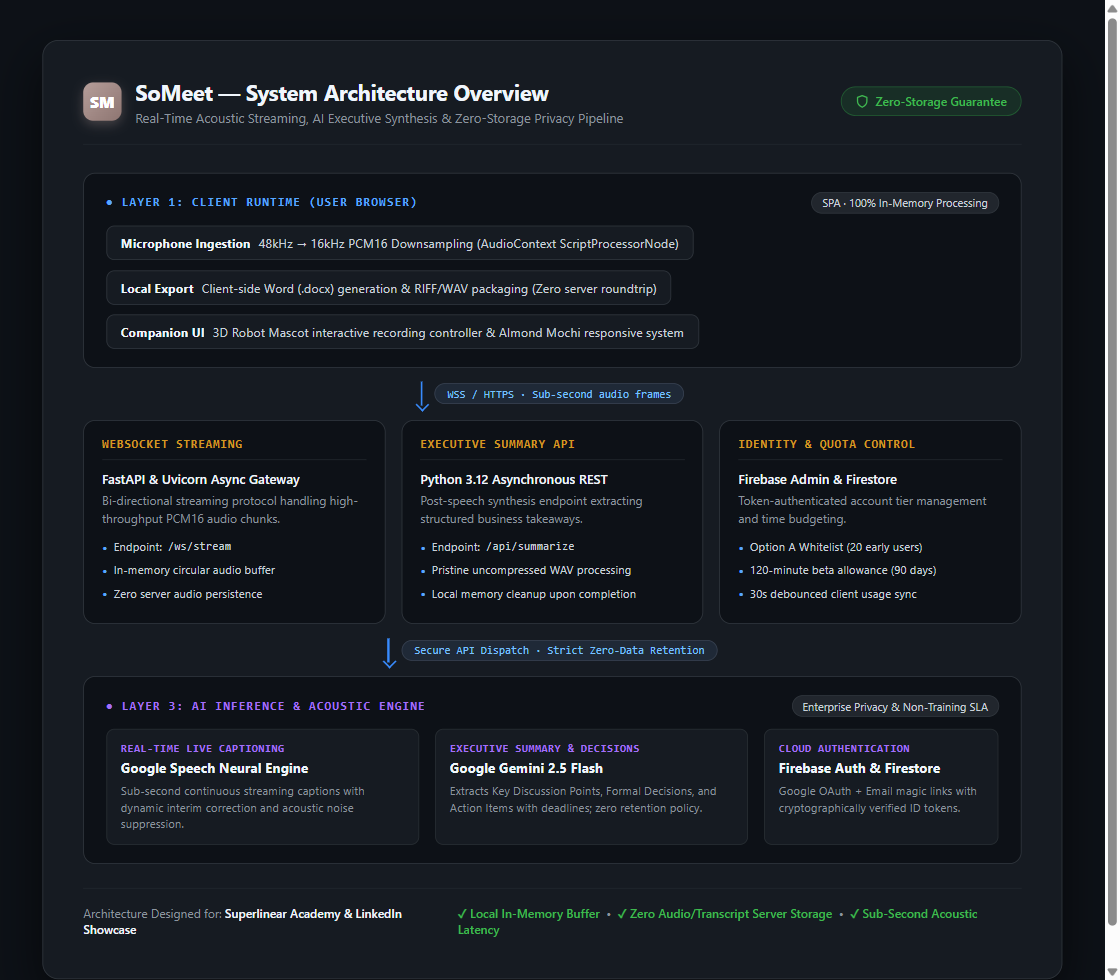
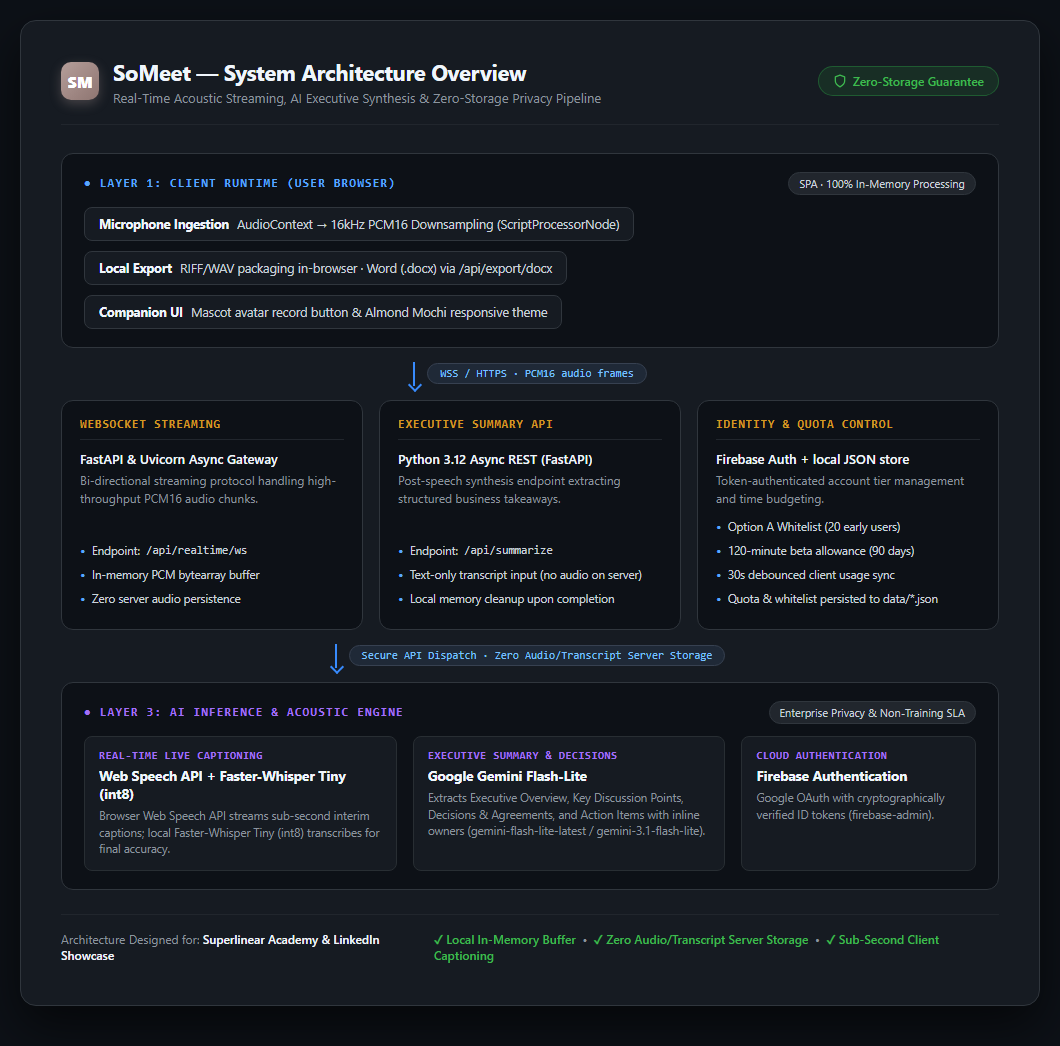
Add updated ASCII architecture diagram and rendered graphic overviews

diff --git a/static/ascii_render.html b/static/ascii_render.html
@@ -1,0 +1,122 @@
+<!DOCTYPE html>
+<html lang="en">
+<head>
+  <meta charset="UTF-8">
+  <title>SoMeet Architecture Overview</title>
+  <style>
+    * {
+      box-sizing: border-box;
+      margin: 0;
+      padding: 0;
+    }
+    body {
+      background-color: #EAE6E5;
+      display: flex;
+      justify-content: center;
+      align-items: center;
+      min-height: 100vh;
+      padding: 30px;
+      font-family: -apple-system, BlinkMacSystemFont, "Segoe UI", Roboto, sans-serif;
+    }
+    .wrapper {
+      background: #FBF7F7;
+      border: 1px solid #A58E8A;
+      border-radius: 14px;
+      padding: 24px 28px 28px;
+      box-shadow: 0 8px 30px rgba(165, 142, 138, 0.2);
+      display: inline-block;
+    }
+    .header-bar {
+      display: flex;
+      justify-content: space-between;
+      align-items: center;
+      margin-bottom: 14px;
+      padding-bottom: 10px;
+      border-bottom: 1px solid #E2D6D3;
+    }
+    .title-group {
+      display: flex;
+      align-items: center;
+      gap: 10px;
+    }
+    .badge {
+      background: #7A6966;
+      color: #FFFFFF;
+      font-size: 11px;
+      font-weight: 700;
+      letter-spacing: 0.6px;
+      padding: 3px 10px;
+      border-radius: 12px;
+      text-transform: uppercase;
+    }
+    .title {
+      font-size: 15px;
+      font-weight: 700;
+      color: #3E3433;
+      letter-spacing: -0.2px;
+    }
+    .subtitle {
+      font-size: 12px;
+      color: #7A6966;
+      font-weight: 500;
+    }
+    pre {
+      font-family: "Consolas", "Cascadia Code", "Courier New", monospace;
+      font-size: 13.5px;
+      line-height: 1.34;
+      color: #2D2423;
+      background: #FFFFFF;
+      padding: 20px 24px;
+      border-radius: 10px;
+      border: 1px solid #E2D6D3;
+      white-space: pre;
+      overflow: visible;
+      letter-spacing: 0px;
+    }
+  </style>
+</head>
+<body>
+  <div class="wrapper">
+    <div class="header-bar">
+      <div class="title-group">
+        <span class="badge">Architecture</span>
+        <span class="title">SoMeet — System Architecture Overview</span>
+      </div>
+      <div class="subtitle">Vanilla JS · FastAPI (Python 3.12) · Faster-Whisper · Gemini Flash-Lite</div>
+    </div>
+    <pre>
+┌─────────────────────────────────────────────────────────────────────────────┐
+│                        LAYER 1: CLIENT RUNTIME                              │
+│       Modern Web Audio SPA (Vanilla JS · HTML5 AudioContext · WSS)          │
+│                                                                             │
+│ • Ingestion: AudioContext → 16kHz PCM16 Downsampling (ScriptProcessorNode)  │
+│ • Local Export: RIFF/WAV in-browser · Word (.docx) via /api/export/docx     │
+│ • Companion UI: Mascot avatar record button & Almond Mochi responsive theme │
+└──────────────────────────────────────┬──────────────────────────────────────┘
+                                       │ WSS / HTTPS (PCM16 Audio Chunks)
+                                       ▼
+┌─────────────────────────────────────────────────────────────────────────────┐
+│                    LAYER 2: FASTAPI BACKEND GATEWAY                         │
+│                      Uvicorn · Python 3.12 Runtime                          │
+├──────────────────────────────┬──────────────────────────────┬───────────────┤
+│    WebSocket Live Stream     │     Executive Summary API    │ Identity &    │
+│     (/api/realtime/ws)       │      (/api/summarize)        │ Quota Engine  │
+│  In-memory PCM bytearray     │  Text-only transcript input  │ 120-min quota │
+│  Zero server audio storage   │  Zero server audio storage   │ Whitelist mode│
+└──────────────┬───────────────┴──────────────┬───────────────┴───────┬───────┘
+               │                              │                       │
+      Sub-second live audio          Post-speech transcript     Auth & Usage
+               │                              │                       │
+               ▼                              ▼                       ▼
+┌──────────────────────────────┐┌──────────────────────────────┐┌─────────────┐
+│      ACOUSTIC STREAMING      ││     AI EXECUTIVE SUMMARY     ││  FIREBASE   │
+│ Web Speech API + Whisper int8││    Google Gemini Flash-Lite  ││    AUTH     │
+│                              ││                              ││             │
+│ • Sub-second client captions ││ • Executive Overview & Points││ • User Auth │
+│ • Interim text self-correct  ││ • Decisions & Action Items   ││ • Quota sync│
+│ • Local Faster-Whisper Tiny  ││ • Strict zero-data retention ││ • Whitelist │
+└──────────────────────────────┘└──────────────────────────────┘└─────────────┘
+    </pre>
+  </div>
+</body>
+</html>

diff --git a/static/architecture_card.html b/static/architecture_card.html
@@ -314,13 +314,13 @@
         </div>
         <div class="client-chips">
           <div class="chip">
-            <strong>Microphone Ingestion</strong> 48kHz → 16kHz PCM16 Downsampling (AudioContext ScriptProcessorNode)
+            <strong>Microphone Ingestion</strong> AudioContext → 16kHz PCM16 Downsampling (ScriptProcessorNode)
           </div>
           <div class="chip">
-            <strong>Local Export</strong> Client-side Word (.docx) generation & RIFF/WAV packaging (Zero server roundtrip)
+            <strong>Local Export</strong> RIFF/WAV packaging in-browser · Word (.docx) via /api/export/docx
           </div>
           <div class="chip">
-            <strong>Companion UI</strong> 3D Robot Mascot interactive recording controller & Almond Mochi responsive system
+            <strong>Companion UI</strong> Mascot avatar record button & Almond Mochi responsive theme
           </div>
         </div>
       </div>
@@ -328,7 +328,7 @@
       <!-- Connector -->
       <div class="flow-connector">
         <div class="flow-line"></div>
-        <div class="flow-tag">WSS / HTTPS · Sub-second audio frames</div>
+        <div class="flow-tag">WSS / HTTPS · PCM16 audio frames</div>
       </div>
 
       <!-- Layer 2: Backend Services -->
@@ -338,31 +338,32 @@
           <div class="service-tech">FastAPI & Uvicorn Async Gateway</div>
           <div class="service-desc">Bi-directional streaming protocol handling high-throughput PCM16 audio chunks.</div>
           <ul class="bullet-list">
-            <li>Endpoint: <code>/ws/stream</code></li>
-            <li>In-memory circular audio buffer</li>
+            <li>Endpoint: <code>/api/realtime/ws</code></li>
+            <li>In-memory PCM bytearray buffer</li>
             <li>Zero server audio persistence</li>
           </ul>
         </div>
 
         <div class="service-box">
           <div class="service-header">Executive Summary API</div>
-          <div class="service-tech">Python 3.12 Asynchronous REST</div>
+          <div class="service-tech">Python 3.12 Async REST (FastAPI)</div>
           <div class="service-desc">Post-speech synthesis endpoint extracting structured business takeaways.</div>
           <ul class="bullet-list">
             <li>Endpoint: <code>/api/summarize</code></li>
-            <li>Pristine uncompressed WAV processing</li>
+            <li>Text-only transcript input (no audio on server)</li>
             <li>Local memory cleanup upon completion</li>
           </ul>
         </div>
 
         <div class="service-box">
           <div class="service-header">Identity & Quota Control</div>
-          <div class="service-tech">Firebase Admin & Firestore</div>
+          <div class="service-tech">Firebase Auth + local JSON store</div>
           <div class="service-desc">Token-authenticated account tier management and time budgeting.</div>
           <ul class="bullet-list">
             <li>Option A Whitelist (20 early users)</li>
             <li>120-minute beta allowance (90 days)</li>
             <li>30s debounced client usage sync</li>
+            <li>Quota & whitelist persisted to data/*.json</li>
           </ul>
         </div>
       </div>
@@ -370,7 +371,7 @@
       <!-- Connector -->
       <div class="flow-connector">
         <div class="flow-line"></div>
-        <div class="flow-tag">Secure API Dispatch · Strict Zero-Data Retention</div>
+        <div class="flow-tag">Secure API Dispatch · Zero Audio/Transcript Server Storage</div>
       </div>
 
       <!-- Layer 3: External AI Tier -->
@@ -384,18 +385,18 @@
         <div class="ai-grid">
           <div class="ai-card">
             <div class="ai-role">Real-Time Live Captioning</div>
-            <div class="ai-model">Google Speech Neural Engine</div>
-            <div class="ai-points">Sub-second continuous streaming captions with dynamic interim correction and acoustic noise suppression.</div>
+            <div class="ai-model">Web Speech API + Faster-Whisper Tiny (int8)</div>
+            <div class="ai-points">Browser Web Speech API streams sub-second interim captions; local Faster-Whisper Tiny (int8) transcribes for final accuracy.</div>
           </div>
           <div class="ai-card">
             <div class="ai-role">Executive Summary & Decisions</div>
-            <div class="ai-model">Google Gemini 2.5 Flash</div>
-            <div class="ai-points">Extracts Key Discussion Points, Formal Decisions, and Action Items with deadlines; zero retention policy.</div>
+            <div class="ai-model">Google Gemini Flash-Lite</div>
+            <div class="ai-points">Extracts Executive Overview, Key Discussion Points, Decisions & Agreements, and Action Items with inline owners (gemini-flash-lite-latest / gemini-3.1-flash-lite).</div>
           </div>
           <div class="ai-card">
             <div class="ai-role">Cloud Authentication</div>
-            <div class="ai-model">Firebase Auth & Firestore</div>
-            <div class="ai-points">Google OAuth + Email magic links with cryptographically verified ID tokens.</div>
+            <div class="ai-model">Firebase Authentication</div>
+            <div class="ai-points">Google OAuth with cryptographically verified ID tokens (firebase-admin).</div>
           </div>
         </div>
       </div>
@@ -407,7 +408,7 @@
       <div>
         <span class="trust-highlight">✓ Local In-Memory Buffer</span> &nbsp;•&nbsp;
         <span class="trust-highlight">✓ Zero Audio/Transcript Server Storage</span> &nbsp;•&nbsp;
-        <span class="trust-highlight">✓ Sub-Second Acoustic Latency</span>
+        <span class="trust-highlight">✓ Sub-Second Client Captioning</span>
       </div>
     </div>
   </div>

diff --git a/ARCHITECTURE.md b/ARCHITECTURE.md
@@ -1,0 +1,48 @@
+# SoMeet — Architecture Overview
+
+![SoMeet Architecture Overview](file:///C:/AgentSpace/Projects/SoMeet/SoMeet_Web/static/someet_ascii_architecture_overview.png)
+
+---
+
+### Updated ASCII Architecture Diagram
+
+```text
+┌─────────────────────────────────────────────────────────────────────────────┐
+│                        LAYER 1: CLIENT RUNTIME                              │
+│       Modern Web Audio SPA (Vanilla JS · HTML5 AudioContext · WSS)          │
+│                                                                             │
+│ • Ingestion: AudioContext → 16kHz PCM16 Downsampling (ScriptProcessorNode)  │
+│ • Local Export: RIFF/WAV in-browser · Word (.docx) via /api/export/docx     │
+│ • Companion UI: Mascot avatar record button & Almond Mochi responsive theme │
+└──────────────────────────────────────┬──────────────────────────────────────┘
+                                       │ WSS / HTTPS (PCM16 Audio Chunks)
+                                       ▼
+┌─────────────────────────────────────────────────────────────────────────────┐
+│                    LAYER 2: FASTAPI BACKEND GATEWAY                         │
+│                      Uvicorn · Python 3.12 Runtime                          │
+├──────────────────────────────┬──────────────────────────────┬───────────────┤
+│    WebSocket Live Stream     │     Executive Summary API    │ Identity &    │
+│     (/api/realtime/ws)       │      (/api/summarize)        │ Quota Engine  │
+│  In-memory PCM bytearray     │  Text-only transcript input  │ 120-min quota │
+│  Zero server audio storage   │  Zero server audio storage   │ Whitelist mode│
+└──────────────┬───────────────┴──────────────┬───────────────┴───────┬───────┘
+               │                              │                       │
+      Sub-second live audio          Post-speech transcript     Auth & Usage
+               │                              │                       │
+               ▼                              ▼                       ▼
+┌──────────────────────────────┐┌──────────────────────────────┐┌─────────────┐
+│      ACOUSTIC STREAMING      ││     AI EXECUTIVE SUMMARY     ││  FIREBASE   │
+│ Web Speech API + Whisper int8││    Google Gemini Flash-Lite  ││    AUTH     │
+│                              ││                              ││             │
+│ • Sub-second client captions ││ • Executive Overview & Points││ • User Auth │
+│ • Interim text self-correct  ││ • Decisions & Action Items   ││ • Quota sync│
+│ • Local Faster-Whisper Tiny  ││ • Strict zero-data retention ││ • Whitelist │
+└──────────────────────────────┘└──────────────────────────────┘└─────────────┘
+```
+
+---
+
+### Visual Card & Graphic Links
+
+* **Visual HTML Card**: [static/architecture_card.html](file:///C:/AgentSpace/Projects/SoMeet/SoMeet_Web/static/architecture_card.html)
+* **High-Res Graphic PNG**: [static/someet_architecture_overview.png](file:///C:/AgentSpace/Projects/SoMeet/SoMeet_Web/static/someet_architecture_overview.png)
